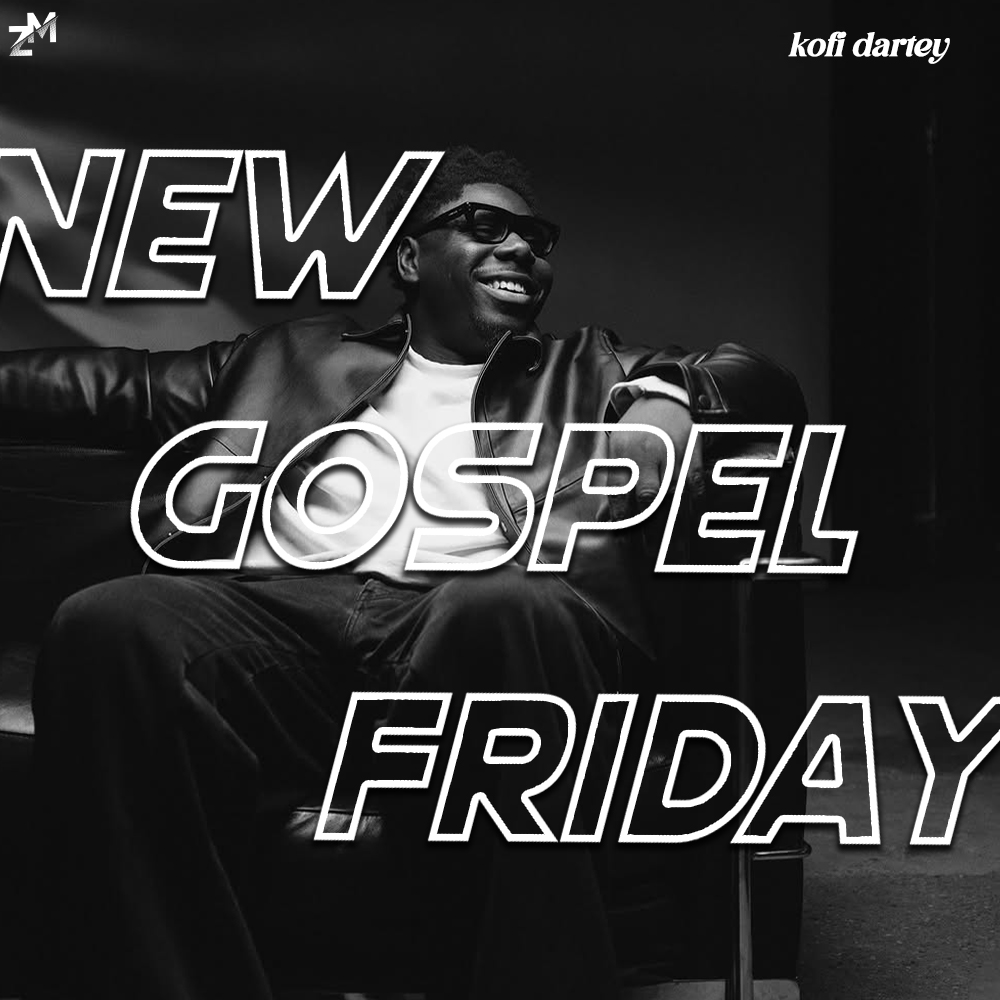
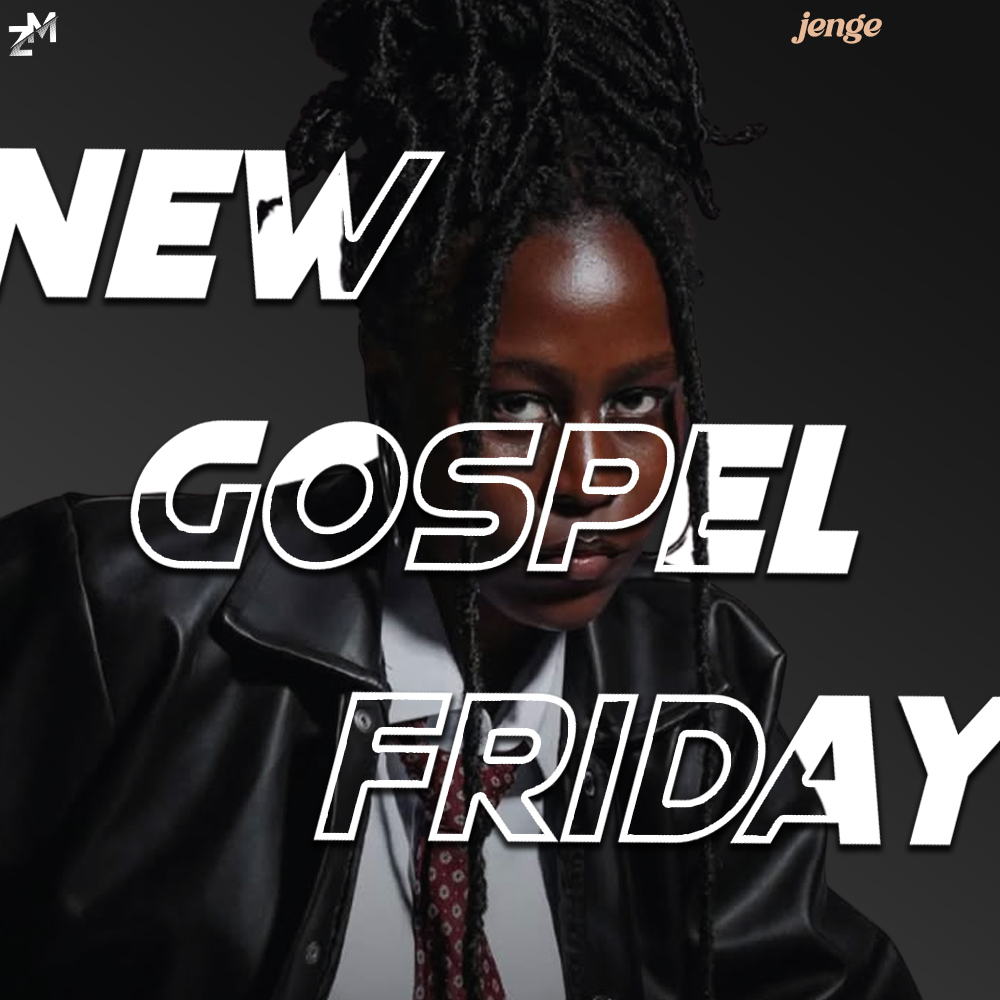
NGF JENGE

diff --git a/new music friday/ngf.html b/new music friday/ngf.html
@@ -55,7 +55,7 @@
                 </section>
             </div>
             <section class="ngf-smalltext">
-                <p>Cover: Kofi Dartey with a deluxe album titled "WHERE THE HEART IS"
+                <p>Cover: Jenge with a new single titled "What a friend"
                      <br><br>
                     <!-- <span>The only right way to be a believer is to believe in Jesus.</span> -->
 
